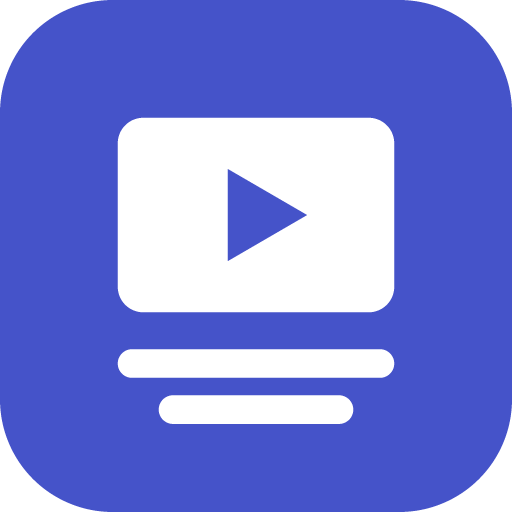
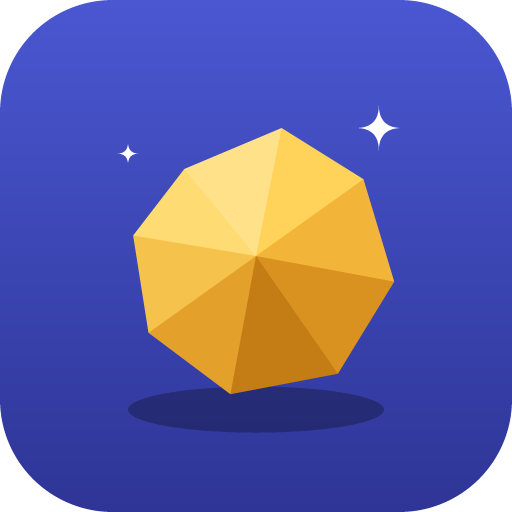
Renomeia o app para Garimpo e troca o icone
O nome combina com o que o app faz: voce joga os videos na fila e o Claude separa o que vale a pena. O icone
agora e uma pepita de ouro lapidada, e o exemplo do repositorio da fila passa a ser usuario/garimpo-fila.

diff --git a/index.html b/index.html
@@ -8,7 +8,7 @@
   <meta name="referrer" content="no-referrer">
   <meta name="theme-color" content="#f6f7f9" media="(prefers-color-scheme: light)">
   <meta name="theme-color" content="#101217" media="(prefers-color-scheme: dark)">
-  <title>Fila do Claude</title>
+  <title>Garimpo</title>
   <link rel="manifest" href="manifest.webmanifest">
   <link rel="icon" href="icone-192.png" type="image/png">
   <link rel="apple-touch-icon" href="icone-192.png">
@@ -17,7 +17,7 @@
 </head>
 <body>
   <header class="topo">
-    <h1>Fila do Claude</h1>
+    <h1>Garimpo</h1>
     <button type="button" id="abrir-config" class="botao-icone" aria-label="Configurações" aria-controls="config" aria-expanded="false">
       <svg viewBox="0 0 24 24" width="22" height="22" aria-hidden="true"><path fill="currentColor" d="M19.4 13a7.6 7.6 0 0 0 0-2l2-1.6-2-3.4-2.4 1a7.4 7.4 0 0 0-1.7-1l-.4-2.6h-3.8l-.4 2.6a7.4 7.4 0 0 0-1.7 1l-2.4-1-2 3.4 2 1.6a7.6 7.6 0 0 0 0 2l-2 1.6 2 3.4 2.4-1a7.4 7.4 0 0 0 1.7 1l.4 2.6h3.8l.4-2.6a7.4 7.4 0 0 0 1.7-1l2.4 1 2-3.4-2-1.6zM12 15.5a3.5 3.5 0 1 1 0-7 3.5 3.5 0 0 1 0 7z"/></svg>
     </button>
@@ -33,7 +33,7 @@
       <form id="form-config" novalidate>
         <label for="repo">Repositório da fila</label>
         <input id="repo" name="repo" type="text" inputmode="url" autocomplete="off" autocapitalize="off"
-               spellcheck="false" placeholder="usuario/fila-videos" required>
+               spellcheck="false" placeholder="usuario/garimpo-fila" required>
         <label for="token">Token do GitHub</label>
         <input id="token" name="token" type="password" autocomplete="off" autocapitalize="off" spellcheck="false"
                placeholder="github_pat_..." required>
@@ -80,7 +80,7 @@
       </div>
       <ul id="fila" class="fila"></ul>
       <p id="fila-vazia" class="suave" hidden>Nada na fila ainda. No Instagram, toque em Compartilhar e escolha
-        <strong>Fila do Claude</strong>.</p>
+        <strong>Garimpo</strong>.</p>
     </section>
   </main>
 </body>

diff --git a/app.js b/app.js
@@ -1,4 +1,4 @@
-// Fila do Claude: recebe links de video pelo "Compartilhar" do Android e guarda cada um como issue num repositorio
+// Garimpo: recebe links de video pelo "Compartilhar" do Android e guarda cada um como issue num repositorio
 // privado do GitHub. O PC le essas issues, baixa e transcreve os videos, e o Claude responde na propria issue.
 'use strict';
 
@@ -389,7 +389,7 @@ async function salvarConfig(evento) {
   const anterior = config();
   const token = campoToken.dataset.salvo && campoToken.value === '••••••••' ? anterior.token : campoToken.value.trim();
   if (!RE_REPO.test(repo)) {
-    avisar('O repositório fica no formato usuario/nome, por exemplo usuario/fila-videos.', 'erro');
+    avisar('O repositório fica no formato usuario/nome, por exemplo usuario/garimpo-fila.', 'erro');
     $('repo').focus();
     return;
   }
@@ -409,7 +409,7 @@ async function salvarConfig(evento) {
       return;
     }
     $('token').dataset.salvo = 'sim';
-    avisar('Tudo certo. Agora é só compartilhar os vídeos com a Fila do Claude.', 'ok');
+    avisar('Tudo certo. Agora é só compartilhar os vídeos com o Garimpo.', 'ok');
     mostrarConfig(false);
     await reenviarPendentes();
     carregarFila();

diff --git a/sw.js b/sw.js
@@ -2,7 +2,7 @@
 // As chamadas ao GitHub nunca passam pelo cache.
 'use strict';
 
-const VERSAO = 'fila-v1';
+const VERSAO = 'garimpo-v1';
 const CASCA = ['./', 'index.html', 'app.js', 'estilo.css', 'manifest.webmanifest', 'icone-192.png', 'icone-512.png'];
 
 self.addEventListener('install', (e) => {

diff --git a/README.md b/README.md
@@ -1,4 +1,4 @@
-# Fila do Claude
+# Garimpo
 
 App web (PWA) para mandar vídeos do Instagram para o Claude analisar no PC, sem copiar link por link.
 
@@ -23,8 +23,8 @@ issue com **Vale a pena** ou **Evite**. A resposta aparece no app.
 2. Menu ⋮ → **Instalar app** (ou "Adicionar à tela inicial" → Instalar).
    - Xiaomi (MIUI/HyperOS): se não aparecer o ícone, libere em Configurações → Apps → Chrome → Outras permissões
      → **Atalhos na tela inicial**.
-3. Abra o app, toque na engrenagem e preencha o repositório (`usuario/fila-videos`) e o token.
-4. No Instagram: Compartilhar → **Fila do Claude**. Ele só aparece na lista se foi *instalado* (passo 2), não
+3. Abra o app, toque na engrenagem e preencha o repositório (`usuario/garimpo-fila`) e o token.
+4. No Instagram: Compartilhar → **Garimpo**. Ele só aparece na lista se foi *instalado* (passo 2), não
    apenas adicionado como favorito.
 
 ## Arquivos
